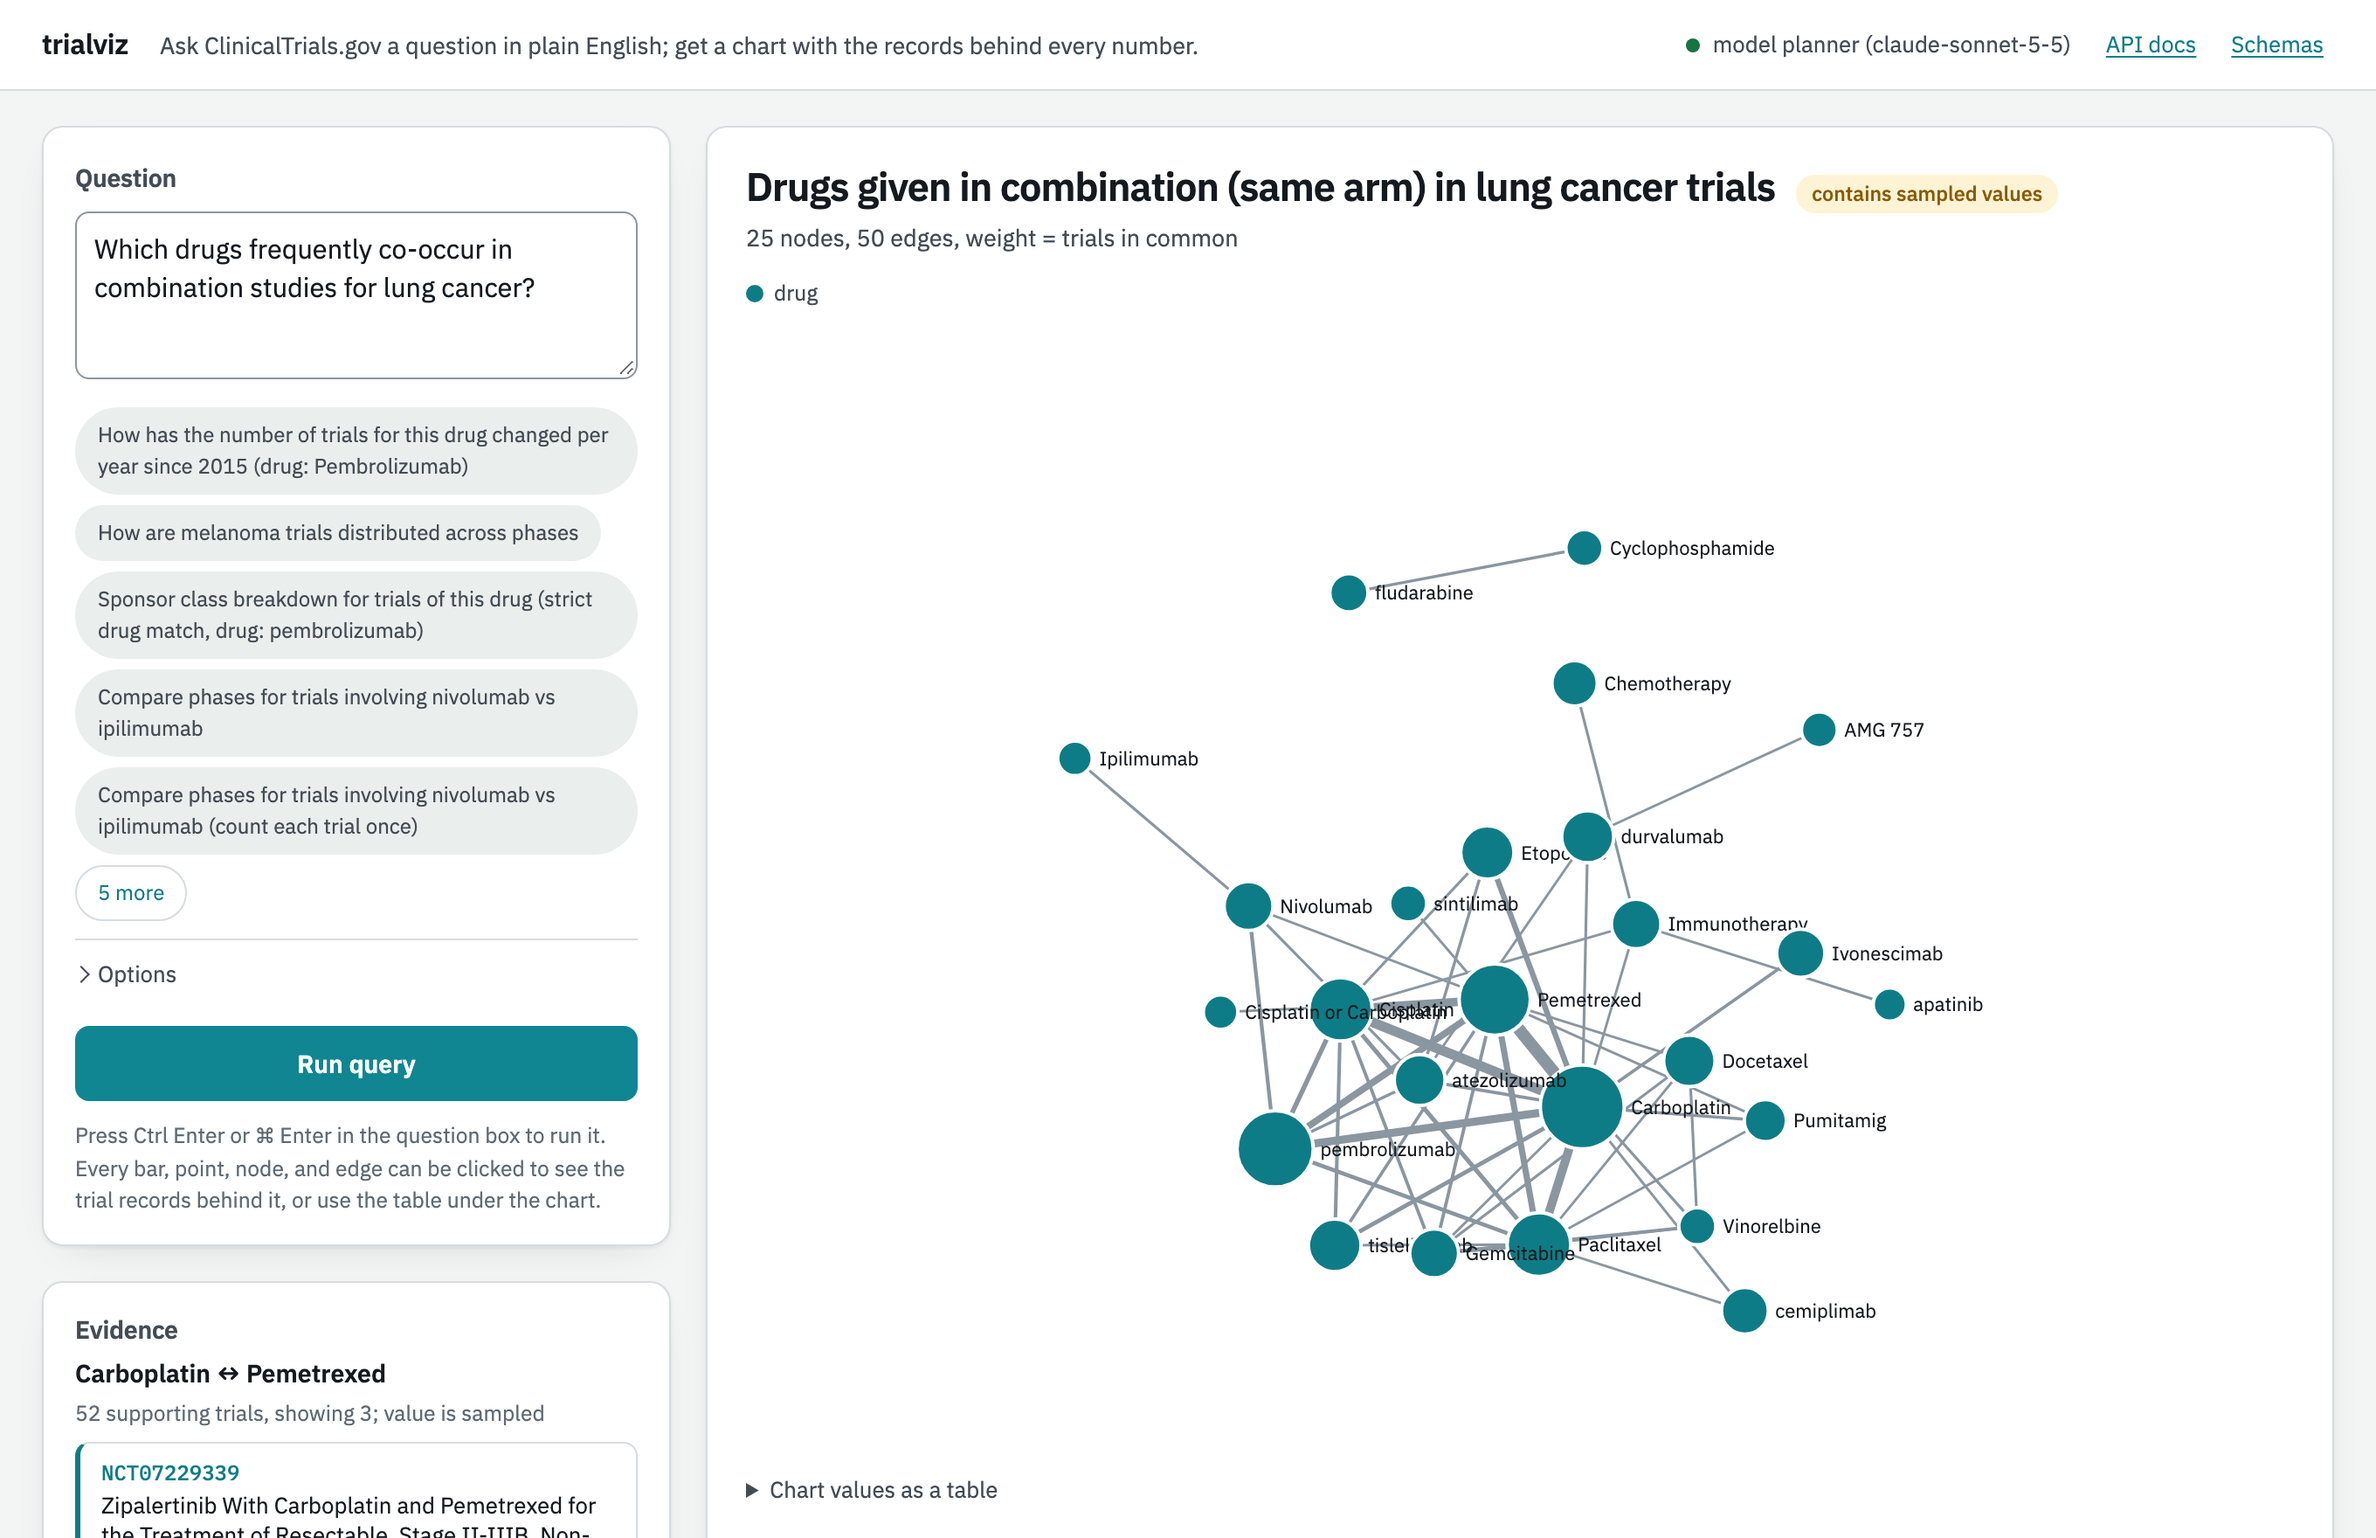
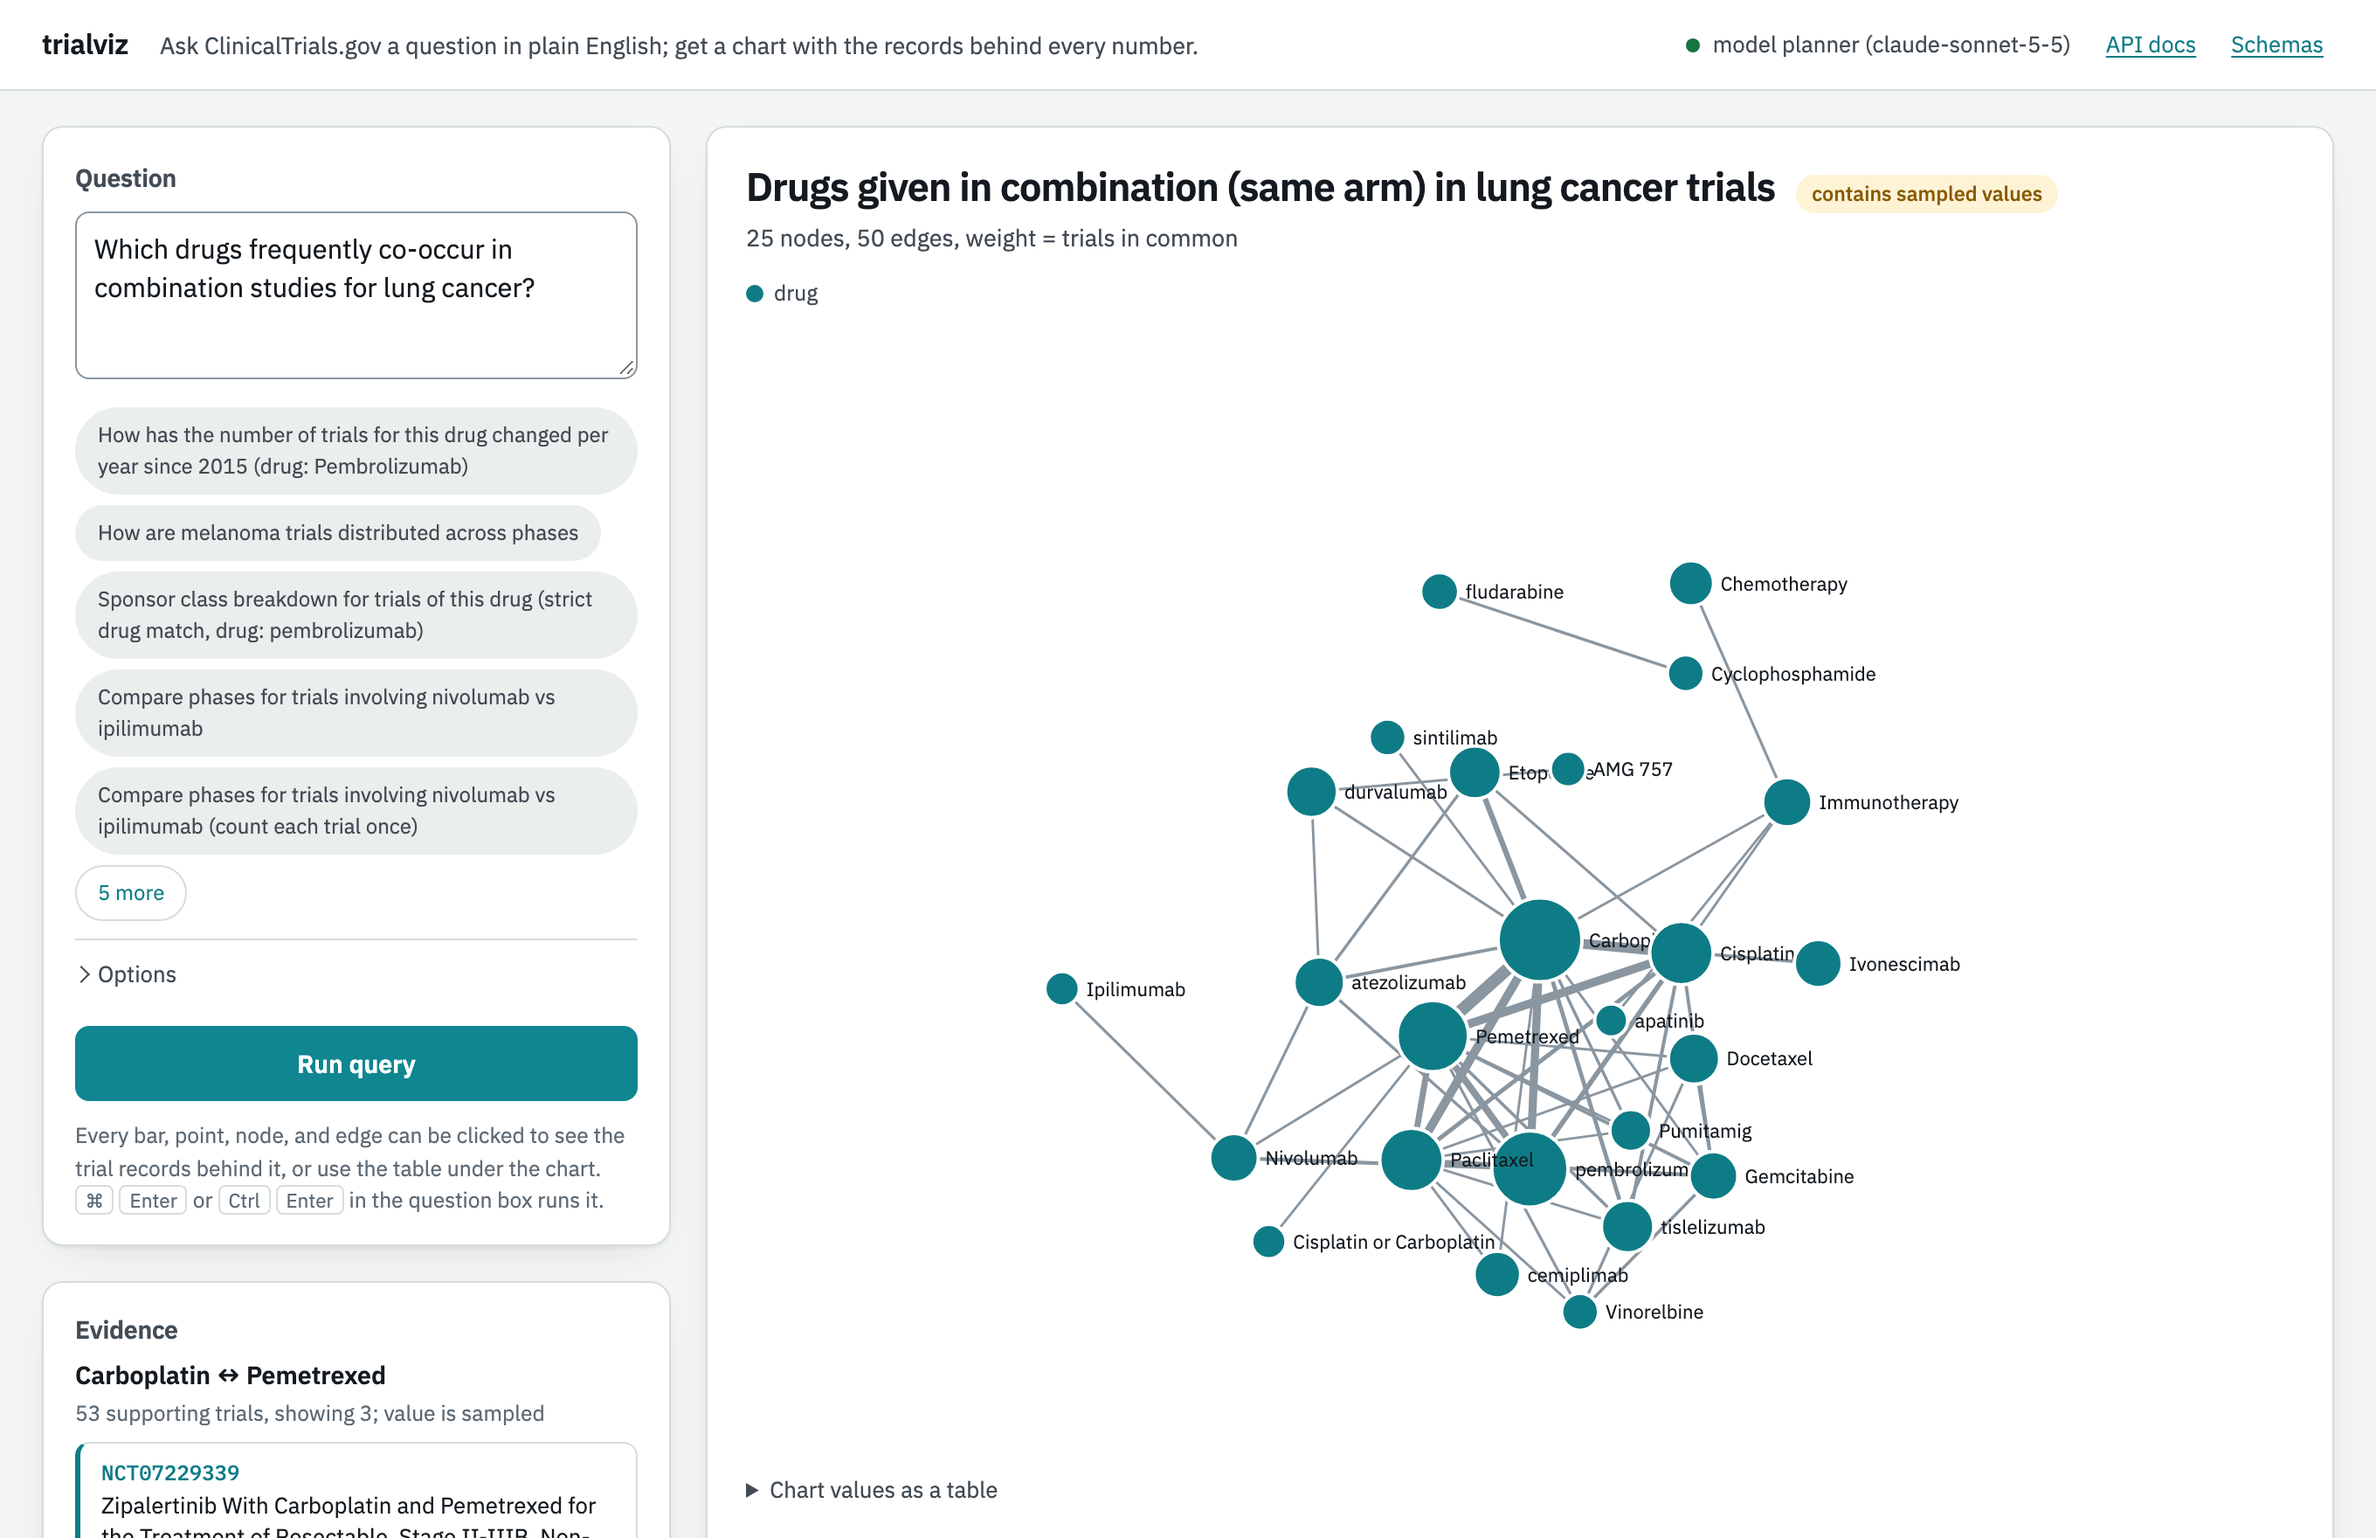
README screenshots

diff --git a/README.md b/README.md
@@ -18,6 +18,24 @@ fixed menu. Every number in a chart is counted from registry records or returned
 by the registry's own count endpoint, and every bar, point, node, and edge
 carries citations to the NCT records that produced it.
 
+## What it looks like
+
+![Melanoma trials by phase. Every bar is exact (all records fetched) and the panel on the left shows the registry records behind the Phase 3 bar, with the field values that put them there.](docs/screenshots/phase-distribution.png)
+
+*Melanoma trials by phase. Every bar is exact (all records fetched) and the panel on the left shows the registry records behind the Phase 3 bar, with the field values that put them there.*
+
+![Drugs given in combination in lung cancer trials. An edge means both drugs are listed in the same arm group; the heaviest edge is selected and its supporting trials quote the arm entries.](docs/screenshots/combination-network.png)
+
+*Drugs given in combination in lung cancer trials. An edge means both drugs are listed in the same arm group; the heaviest edge is selected and its supporting trials quote the arm entries.*
+
+![Nivolumab versus ipilimumab by phase with comparison_mode=partition: each trial is counted once, in 'nivolumab only', 'ipilimumab only', or 'Both'.](docs/screenshots/partition-comparison.png)
+
+*Nivolumab versus ipilimumab by phase with comparison_mode=partition: each trial is counted once, in 'nivolumab only', 'ipilimumab only', or 'Both'.*
+
+![The meta panel for the first chart: how the question was read, what the numbers mean, retrieval coverage, and the verification report that re-derived every value from the records.](docs/screenshots/verification.png)
+
+*The meta panel for the first chart: how the question was read, what the numbers mean, retrieval coverage, and the verification report that re-derived every value from the records.*
+
 ## Contents
 
 1. [Running it](#1-running-it)
